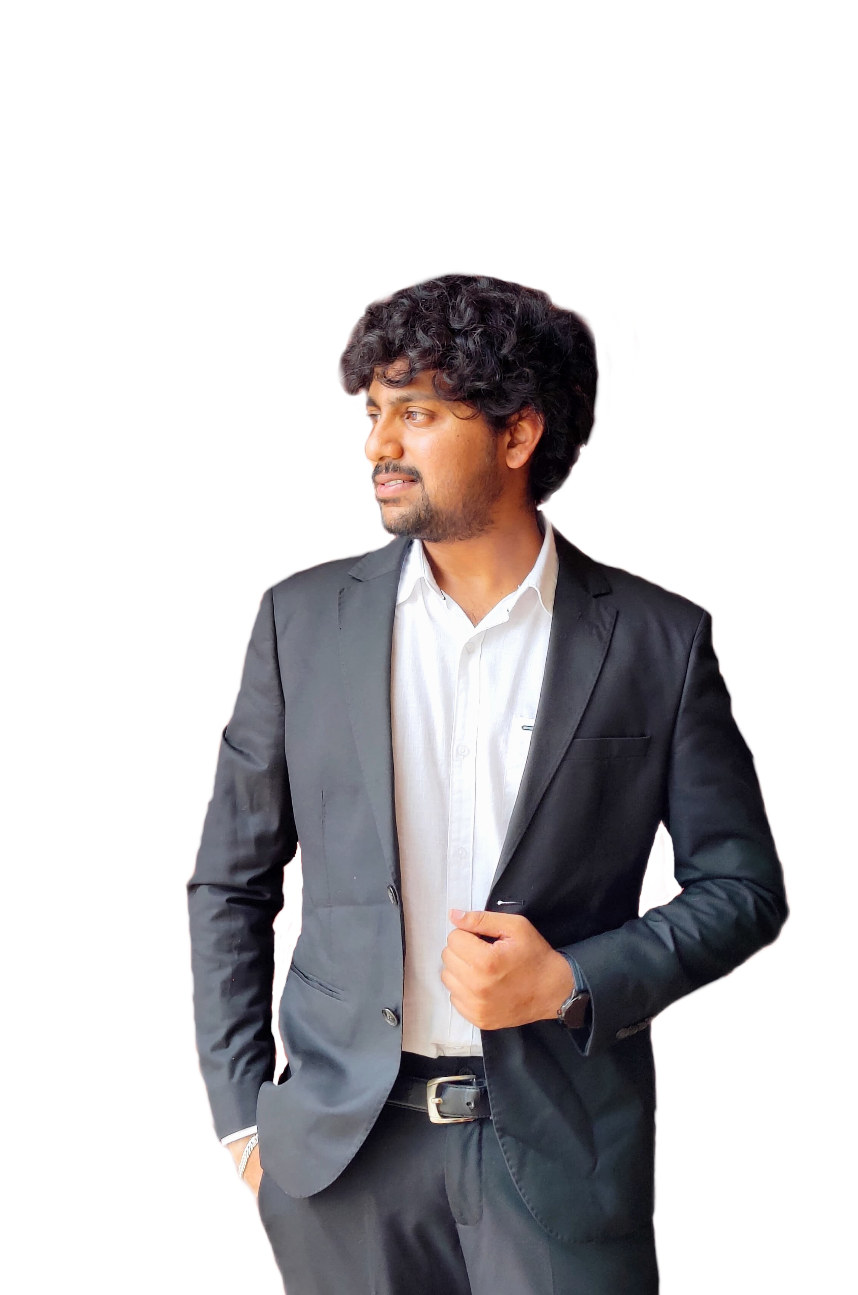
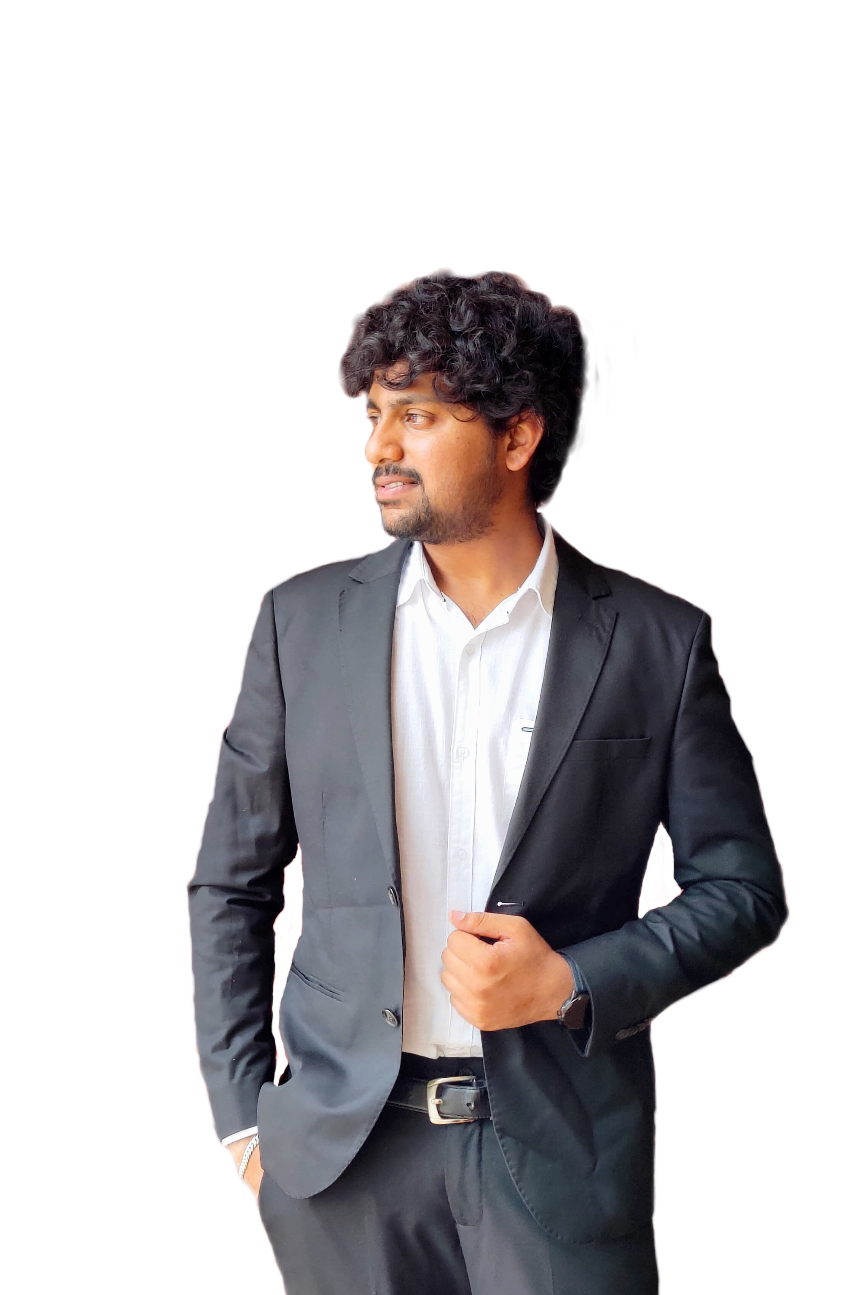
Responses

diff --git a/src/components/Intro/intro.css b/src/components/Intro/intro.css
@@ -8,8 +8,8 @@
 
 .bg {
   position: absolute;
-  top: -4rem;
-  right: 0;
+  top: 0rem;
+  right: 10vh;
   z-index: -1;
   object-fit: cover;
   height: 100vh;
@@ -24,4 +24,50 @@
   display: flex;
   flex-direction: column;
   justify-content: center;
+}
+
+.hello {
+  font-size: 1.75rem;
+  font-weight: 100;
+}
+
+.introName {
+  color: yellow;
+}
+
+.introPara {
+  font-size: medium;
+  font-weight: 300;
+  letter-spacing: 1px;
+}
+
+.btn {
+  background: white;
+  margin: 1rem 0;
+  padding: 0.75rem 2rem;
+  border: none;
+  border-radius: 2rem;
+}
+
+.btnImg {
+  object-fit: cover;
+  margin: 0 0.25rem;
+  height: 1rem;
+}
+
+@media screen and (max-width: 840px) {
+  .bg {
+    right: -10vw;
+  }
+  .introContent {
+    font-size: 10vw;
+  }
+  .hello {
+    font-size: 4.5vw;
+  }
+}
+@media screen and (max-width: 414px) {
+  .bg {
+    right: -14vw;
+  }
 }

diff --git a/src/components/Intro/intro.jsx b/src/components/Intro/intro.jsx
@@ -11,16 +11,17 @@ const Intro = () => {
         <div className="introContent">
           <span className="hello">Hello,</span>
           <span className="introText">
-            I'm <span className="introName">Nithin</span>
+            I'm <span className="introName">Nithin Kumar</span>
             <br />
             Website Designer
           </span>
           <p className="introPara">
-            I am a skilled web designer with experience in creating visual
+            I am a skilled web designer with experience in creating <br />{" "}
+            visual appealing and user friendly websits.
           </p>
           <Link>
             <button className="btn">
-              <img src={btnImg} alt="Hire Me" />
+              <img src={btnImg} alt="Hire Me" className="btnImg" />
               Hire Me
             </button>
           </Link>

diff --git a/public/index.html b/public/index.html
@@ -9,6 +9,12 @@
 
     <title>Nithin Portfolio</title>
     <link rel="stylesheet" href="./style.css" />
+    <link rel="preconnect" href="https://fonts.googleapis.com" />
+    <link rel="preconnect" href="https://fonts.gstatic.com" crossorigin />
+    <link
+      href="https://fonts.googleapis.com/css2?family=Poppins:ital,wght@0,100;0,200;0,300;0,400;0,500;0,600;0,700;0,800;0,900;1,100;1,200;1,300;1,400;1,500;1,600;1,700;1,800;1,900&display=swap"
+      rel="stylesheet"
+    />
   </head>
   <body>
     <noscript>You need to enable JavaScript to run this app.</noscript>

diff --git a/public/style.css b/public/style.css
@@ -4,6 +4,7 @@
   box-sizing: border-box;
   text-decoration: none;
   background: transparent;
+  font-family: "Poppins", sans-serif;
 }
 
 body {
